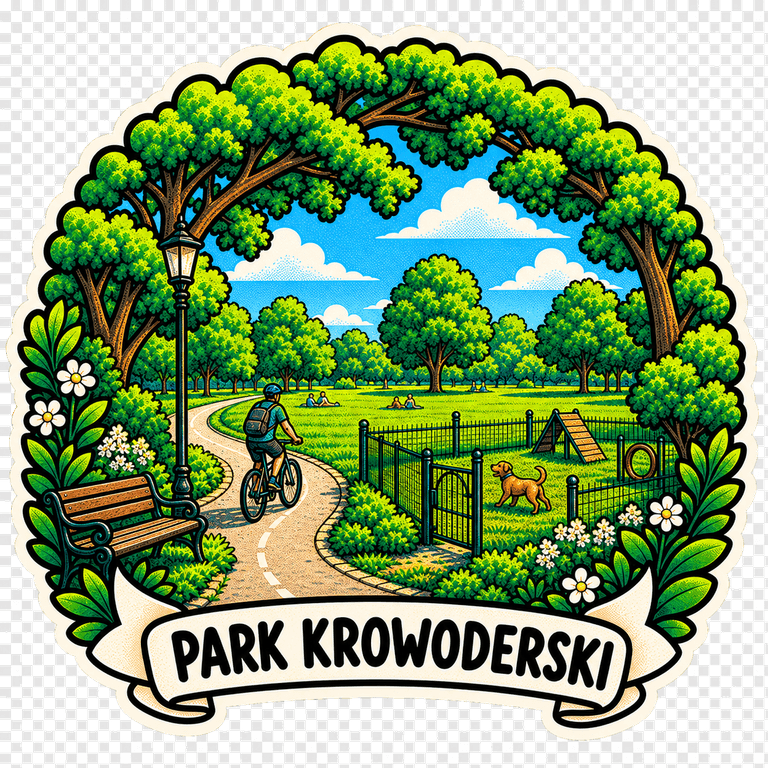
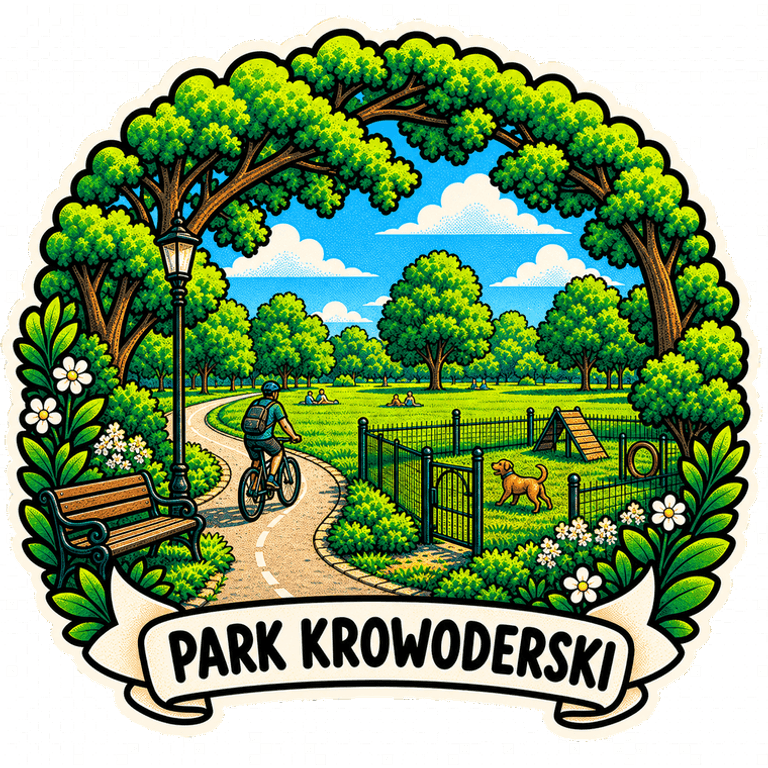
Cut out dark stamp backgrounds, retire the Piltza test route
Park Jordana came in on a black background and the importer only ever
removed near-white pixels, so the flood fill had nothing to spread
through and the sticker shipped inside a black rectangle. The
background colour is now the most common colour among opaque edge
pixels, which also fixes Krowoderski, whose corners were already
transparent while a pale grey band still ran along the edges. The
validator threshold moves from 5 to 12 percent (healthy stamps sit
above 20) and one bad sticker no longer aborts the whole batch.

test-park:remove had 'test-ruczaj' hard coded, a polygon retired long
ago, so it reported success while doing nothing. It now takes every
test- place, clears trails too, and keeps parks.json indented instead
of minifying it into a single 11k line diff. The Piltza route is gone
from all four data files.

58 places, 58 stamps, none missing, no orphans.

diff --git a/src/app/data/quests.ts b/src/app/data/quests.ts
@@ -2823,155 +2823,7 @@ const KRAKOW_QUESTS: Quest[] = [
       },
     ],
   },
-  {
-    parkId: 'test-piltza',
-    pois: [
-      {
-        id: "dom-43",
-        category: "history",
-        name: "Bruksela, czyli Piltza 43",
-        teaser: "Start trasy. Twój blok ma imię stolicy.",
-        description: [
-        "Osiedle Europejskie nie numeruje budynków byle jak: każdy nosi imię europejskiej stolicy, a ten, w którym stoisz, to Bruksela. Deweloper sprzedawał w ten sposób obietnicę bycia częścią Europy, w mieście, które właśnie do niej wchodziło.",
-        "To pierwszy punkt kontrolny: sprawdza, czy aplikacja łapie pozycję jeszcze przed wyjściem. Jeśli zalicza się sam, GPS i promienie działają. Jeśli nie, wyjdź przed budynek: między blokami sygnał odbija się od ścian.",
-        "Cała trasa to około pół kilometra w jedną stronę, sześć punktów, około kwadrans spokojnym krokiem.",
-        ],
-        findHint: "Wejście do budynku Bruksela przy ul. Piltza 43.",
-        reveal: "Nazwy stolic na blokach to chwyt starszy niż się wydaje: pierwsze osiedla nazywane od miast pojawiły się w Polsce w latach sześćdziesiątych, tylko wtedy patronowały im miasta zaprzyjaźnione z blokiem wschodnim. Adres zawsze coś ogłasza.",
-        dilemma: {
-          question: "Nazwa bloku wpływa na to, jak się w nim mieszka?",
-          options: [
-          "Tak, nazwa buduje wspólnotę: łatwiej powiedzieć „mieszkam w Brukseli” niż „w bloku numer 43”",
-          "Nie, to marketing dewelopera, po roku i tak wszyscy mówią „u mnie”",
-          "Nazwa robi robotę tylko wtedy, gdy trafia w coś prawdziwego: rzekę, dawny folwark, człowieka",
-          ],
-          counterpoint: "Badania nad przywiązaniem do miejsca sugerują, że najsilniej działają nazwy odnoszące się do lokalnej historii, a nie do aspiracji. Bruksela brzmi dobrze, ale nic tu nie znaczy: dwa kilometry dalej jest Kobierzyn, wieś z dokumentów z XIV wieku.",
-        },
-        coords: [19.89016, 50.01436],
-        radius: 28,
-      },
-      {
-        id: "parter-uslugowy",
-        category: "monument",
-        name: "Przedszkole i siłownia na parterze",
-        teaser: "Kilkadziesiąt metrów niżej blok przestaje być tylko blokiem.",
-        description: [
-        "Na parterze stoją obok siebie przedszkole Happy Kids i klub Power Zone. To niepozorny szczegół, a decyduje o tym, czy osiedle jest sypialnią, czy miejscem, w którym da się żyć bez samochodu.",
-        "Ruczaj ma tego dużo, bo powstawał już po zmianie prawa i mody: parter oddany usługom, mieszkania od pierwszego piętra. Starsze osiedla Krakowa dostawały zamiast tego wolnostojące pawilony, które dziś stoją puste.",
-        "Punkt testowy: idąc od poprzedniego zobaczysz najpierw delikatną wibrację i podpowiedź „blisko”, a dopiero potem zaliczenie. Sprawdź, czy tak jest.",
-        ],
-        findHint: "Parter bloku po zachodniej stronie Piltza, szyldy przedszkola i siłowni.",
-        reveal: "Jan Gehl mierzył to prosto: policz drzwi na sto metrów pierzei. Poniżej pięciu ulica jest martwa, powyżej dziesięciu żyje. Ten fragment Piltza ma ich tyle, że spacer nie nudzi się nawet w listopadzie.",
-        dilemma: {
-          question: "Wolisz mieszkać nad usługami, czy w cichym bloku bez nich?",
-          options: [
-          "Nad usługami: sklep i kawiarnia pod nosem są warte trochę hałasu",
-          "W cichym: po usługi mogę przejść dwie minuty, ciszy nie da się dokupić",
-          "Zależy od usługi: przedszkole tak, klub nocny nie",
-          ],
-          counterpoint: "To prawdziwy konflikt, nie kwestia gustu. Mieszkańcy pierwszych pięter płacą hałasem i dostawami za wygodę całego osiedla. W Wiedniu rozwiązuje się to inaczej: usługi idą do jednej pierzei kwartału, druga zostaje cicha.",
-        },
-        coords: [19.89016, 50.01386],
-        radius: 25,
-      },
-      {
-        id: "trzy-zlobki",
-        category: "meadow",
-        name: "Trzy żłobki na dwustu metrach",
-        teaser: "Policz szyldy z dziećmi. Nie przypadek.",
-        description: [
-        "HooplaKid, LogoSens, Happy Kids: na krótkim odcinku Piltza działa kilka żłobków i przedszkoli, a między blokami rozsiane są place zabaw. Tak wygląda dzielnica, do której wprowadzili się głównie ludzie po trzydziestce.",
-        "Ruczaj rósł wokół kampusu i firm z Zabłocia oraz Bonarki. Mieszkania kupowali tu ludzie na początku dorosłego życia, więc dziesięć lat później osiedle dostało falę dzieci, a razem z nią kolejki do przedszkoli.",
-        "Za kilkanaście lat te lokale zamienią się w coś innego. Osiedla starzeją się razem z pierwszymi mieszkańcami, tylko rzadko ktoś planuje to z wyprzedzeniem.",
-        ],
-        findHint: "Szyldy żłobków po wschodniej stronie ulicy, przy skrzyżowaniu.",
-        reveal: "Demografowie nazywają to falą kohortową: jednorodne wiekowo osiedle przeżywa boom przedszkolny, potem szkolny, a po trzech dekadach nagle potrzebuje opieki dla seniorów. Kraków zna to z Nowej Huty, która przeszła cały cykl w pięćdziesiąt lat.",
-        dilemma: {
-          question: "Osiedle powinno być projektowane pod obecnych mieszkańców, czy pod ich przyszłość?",
-          options: [
-          "Pod obecnych: potrzeby są dziś, a przyszłość i tak zaskoczy",
-          "Pod przyszłość: lokale i parter da się zaprojektować tak, by zmieniały funkcję",
-          "Pod różnorodność: wymieszać wiek mieszkańców od początku, wtedy nie ma fal",
-          ],
-          counterpoint: "Mieszanie wieku brzmi rozsądnie, ale rynek robi odwrotnie: identyczne mieszkania w identycznej cenie przyciągają identycznych ludzi. Żeby osiedle było różnorodne, ktoś musi celowo zbudować różne mieszkania, a to jest droższe.",
-        },
-        coords: [19.89069, 50.0135],
-        radius: 30,
-      },
-      {
-        id: "pomnik-1942",
-        category: "history",
-        name: "Pomnik pacjentów Kobierzyna",
-        teaser: "Najcichszy punkt tej trasy. Warto tu stanąć dłużej.",
-        description: [
-        "Kilkaset metrów od bloków, w parku dawnego szpitala w Kobierzynie, stoi pomnik pacjentów zamordowanych w 1942 roku. Szpital działa do dziś, nosi imię doktora Jana Babińskiego, a jego pawilony rozsiane w zieleni wyglądają jak małe miasto.",
-        "I takie miały być. Zakład otwarty na początku XX wieku projektowano jako miasto-ogród dla chorych: osobne pawilony, własne gospodarstwo, kościół, kotłownia, park. Leczenie miało polegać na spokoju, pracy i przestrzeni, a nie na zamknięciu w jednym gmachu.",
-        "W czerwcu 1942 Niemcy zlikwidowali szpital. Część pacjentów zamordowano na miejscu, pozostałych wywieziono do Auschwitz. Zginęło kilkuset ludzi, których jedyną winą była choroba.",
-        ],
-        findHint: "Idź alejką w głąb parku szpitalnego, pomnik stoi przy głównej ścieżce.",
-        reveal: "Zbrodnia w Kobierzynie nie była wybuchem szału, a procedurą. Wpisywała się w niemiecki program mordowania chorych psychicznie, prowadzony wcześniej pod nazwą Akcji T4, w którym lekarze podpisywali listy pacjentów jak dokumenty magazynowe. Najtrudniejsze w tej historii jest to, że wykonali ją ludzie z dyplomami zawodu, który miał leczyć.",
-        dilemma: {
-          question: "Szpital w miejscu takiej zbrodni: leczyć dalej, czy zamienić w miejsce pamięci?",
-          options: [
-          "Leczyć dalej: najlepszą odpowiedzią na mord chorych jest opieka nad chorymi",
-          "Zrobić muzeum: takie miejsce powinno uczyć, a pacjenci zasługują na nowy budynek",
-          "Jedno i drugie: szpital działa, ale pamięć nie może być tylko tablicą przy alejce",
-          ],
-          counterpoint: "Pacjenci nie mieli tu wyboru i nadal go nie mają: przychodzą się leczyć, a mieszkają w krajobrazie cudzej tragedii. Z drugiej strony przeniesienie szpitala oznaczałoby, że po ofiarach zostaje tylko pomnik, a po sprawcach pusty park.",
-        },
-        coords: [19.88854, 50.01244],
-        radius: 60,
-      },
-      {
-        id: "kwiaty-i-kawa",
-        category: "monument",
-        name: "Kwiaty i Kawa",
-        teaser: "Kwiaciarnia z ekspresem. Dokładnie to, czego brakuje osiedlom.",
-        description: [
-        "Lokal łączy dwie rzeczy, które osobno na osiedlu nie mają szans: kwiaciarnię, do której wpada się cztery razy w roku, i kawę, po którą przychodzi się codziennie. Razem wychodzi miejsce, które utrzymuje się z sąsiadów, a nie z turystów.",
-        "Obok stoi Dary Posejdona, sklep z rybami. To już nie jest sypialnia: to zestaw sklepów, który daje się obsłużyć pieszo, bez wyprawy do galerii.",
-        "Sprawdź tu, czy działa zapis notatki i zdjęcia w konkretnym miejscu. Zostaw pina z podpisem albo notatkę głosową i zobacz, czy stanął tam, gdzie stoisz.",
-        ],
-        findHint: "Witryna z kwiatami po wschodniej stronie Piltza, kilkadziesiąt metrów przed numerem 34.",
-        reveal: "Socjolog Ray Oldenburg nazwał takie lokale trzecim miejscem: nie dom, nie praca, tylko przestrzeń, w której bywa się bez powodu. Jego teza jest niewygodna dla deweloperów: osiedle bez trzeciego miejsca może mieć wszystko inne i nadal pozostać noclegownią.",
-        dilemma: {
-          question: "Wolisz jedną dobrą kawiarnię blisko, czy pięć sieciówek w centrum?",
-          options: [
-          "Jedną blisko: znają zamówienie i wiedzą, kiedy nie zagadywać",
-          "Sieciówki: przewidywalna jakość i otwarte, gdy naprawdę potrzebuję",
-          "Wolę jedno i drugie i płacić różnicę w odpowiednim miejscu",
-          ],
-          counterpoint: "Lokalna kawiarnia bywa romantyzowana, ale bez ruchu z dwóch, trzech tysięcy mieszkańców po prostu nie utrzyma się w czynszu. Kiedy narzekamy, że zamknęła, zwykle sami byliśmy tam raz na miesiąc.",
-        },
-        coords: [19.89068, 50.01224],
-        radius: 25,
-      },
-      {
-        id: "piltza-34",
-        category: "monument",
-        name: "Piltza 34, koniec trasy",
-        teaser: "Kto to był Piltz, wyjaśnia się dopiero tutaj.",
-        description: [
-        "Doszedłeś. Wokół są drzewa, ławki i plac zabaw, czyli dokładnie to, po co wychodzi się z domu na kwadrans. To dobre miejsce, żeby usiąść i zamknąć wyprawę.",
-        "Ulica nosi imię Jana Piltza, psychiatry i neurologa, profesora Uniwersytetu Jagiellońskiego z przełomu XIX i XX wieku. To on należał do tych, którzy wywalczyli budowę nowoczesnego zakładu w Kobierzynie, tego samego, którego pomnik minąłeś po drodze.",
-        "Sprawdź tu ostatnie rzeczy: czy licznik pokazuje sensowny dystans, czy ślad na mapie trzyma się ulicy, i co się dzieje, gdy zaliczysz komplet punktów. Wyprawa ma się skończyć wtedy, kiedy Ty klikniesz koniec, nie wcześniej.",
-        ],
-        findHint: "Wejście do budynku numer 34, obok ławki i drzewa.",
-        reveal: "Piltz zmarł w 1930 roku, dwanaście lat przed zbrodnią w szpitalu, o który walczył. Nazwa ulicy powstała później i nikt jej nie planował jako komentarza, a jednak trasa, którą właśnie przeszedłeś, zaczyna się przy jego nazwisku i kończy przy jego nazwisku, z pomnikiem ofiar w środku.",
-        dilemma: {
-          question: "Nazwa ulicy to forma pamięci, czy tylko adres?",
-          options: [
-          "Pamięć: dopóki nazwa istnieje, ktoś kiedyś sprawdzi, kim był ten człowiek",
-          "Adres: mieszkańcy nie znają patronów swoich ulic i to nic złego",
-          "Pamięć wtedy, gdy stoi przy niej wyjaśnienie: sama tabliczka z nazwiskiem to za mało",
-          ],
-          counterpoint: "Kraków ma kilkaset ulic z patronami i garść tabliczek z wyjaśnieniem. Można to uznać za zaniedbanie, ale też za rozsądek: kto chciałby mieszkać w mieście, które na każdym rogu tłumaczy, dlaczego coś jest ważne?",
-        },
-        coords: [19.89069, 50.01174],
-        radius: 28,
-      },
-    ],
-  },
+
   {
     /*
      * Błonia Skawińskie: pierwsza wyprawa z punktem CIEKAWOSTKĄ. Pieczątka

diff --git a/src/app/data/trails.ts b/src/app/data/trails.ts
@@ -115,9 +115,7 @@ export const TRAILS: Record<string, Trail[]> = {
     { id: 'wokol', name: 'Pętla po parku', kind: 'points', m: 2774, min: 38, stops: ['smok-aleksandry', 'zbiornik-aleksandry'], line: [[20.01093,50.00983],[20.01081,50.00971],[20.01071,50.00971],[20.01058,50.00978],[20.01021,50.00998],[20.01002,50.01008],[20.00921,50.01048],[20.00905,50.01055],[20.00917,50.01066],[20.00924,50.01071],[20.00926,50.01077],[20.0094,50.0109],[20.00947,50.01093],[20.00956,50.01103],[20.00964,50.01112],[20.00984,50.01132],[20.00997,50.01143],[20.01003,50.01148],[20.01008,50.01153],[20.01017,50.01156],[20.01032,50.01158],[20.01031,50.01165],[20.01065,50.0117],[20.01074,50.0117],[20.01097,50.01172],[20.01111,50.01172],[20.01147,50.01175],[20.01154,50.01172],[20.01157,50.01166],[20.01171,50.01169],[20.01181,50.01172],[20.01192,50.01176],[20.01286,50.01133],[20.01302,50.01138],[20.01313,50.01147],[20.01337,50.01165],[20.0135,50.01169],[20.01363,50.01169],[20.01376,50.01168],[20.01387,50.01167],[20.014,50.01167],[20.01404,50.01176],[20.01403,50.01185],[20.01398,50.01196],[20.01408,50.01198],[20.01417,50.01203],[20.01424,50.01207],[20.01446,50.0121],[20.0147,50.01213],[20.01472,50.01221],[20.01473,50.01235],[20.01477,50.01241],[20.01484,50.01252],[20.01486,50.01258],[20.01485,50.01264],[20.01483,50.01272],[20.01478,50.01282],[20.01471,50.01289],[20.01462,50.01295],[20.01449,50.013],[20.01441,50.01292],[20.01436,50.01286],[20.01435,50.01297],[20.01429,50.01321],[20.01427,50.0133],[20.01425,50.01337],[20.01422,50.01345],[20.0142,50.01355],[20.01413,50.01399],[20.01421,50.01395],[20.01413,50.01399],[20.0142,50.01355],[20.01382,50.0136],[20.01361,50.01362],[20.0131,50.01371],[20.01298,50.01372],[20.01295,50.01388],[20.0129,50.01414],[20.01287,50.01431],[20.01285,50.01442],[20.0128,50.01456],[20.01285,50.01442],[20.01287,50.01431],[20.0129,50.01414],[20.01294,50.01393],[20.01294,50.01375],[20.01307,50.01331],[20.01316,50.01308],[20.0132,50.01301],[20.01326,50.01293],[20.01331,50.01287],[20.01338,50.0128],[20.01351,50.0127],[20.01358,50.01261],[20.01367,50.01252],[20.01372,50.01246],[20.01374,50.01239],[20.01374,50.0123],[20.01374,50.01223],[20.01373,50.01216],[20.01373,50.0121],[20.01372,50.01201],[20.01372,50.01189],[20.01371,50.01183],[20.01367,50.01176],[20.01363,50.01169],[20.0135,50.01169],[20.01339,50.01166],[20.01331,50.01168],[20.01328,50.01182],[20.01334,50.01193],[20.01337,50.01205],[20.01337,50.01211],[20.01337,50.0122],[20.0133,50.01233],[20.01326,50.01239],[20.0132,50.01244],[20.01318,50.01252],[20.01314,50.01257],[20.01318,50.01252],[20.0132,50.01244],[20.01326,50.01239],[20.0133,50.01233],[20.01337,50.0122],[20.01337,50.01211],[20.01337,50.01205],[20.01334,50.01193],[20.01331,50.01187],[20.01328,50.01173],[20.01337,50.01165],[20.0135,50.01169],[20.01363,50.01169],[20.01376,50.01168],[20.01387,50.01167],[20.014,50.01167],[20.01397,50.01159],[20.01393,50.01146],[20.01388,50.01129],[20.01385,50.01116],[20.01383,50.01107],[20.01385,50.011],[20.01396,50.01092],[20.01418,50.01082],[20.01431,50.01079],[20.01453,50.01068],[20.01431,50.01079],[20.01418,50.01082],[20.01402,50.0109],[20.01389,50.01097],[20.0138,50.01105],[20.01372,50.01101],[20.01358,50.01096],[20.0135,50.0109],[20.01335,50.01071],[20.01327,50.01059],[20.01316,50.01048],[20.01299,50.01052],[20.01291,50.01054],[20.01283,50.01057],[20.01275,50.01061],[20.01258,50.01055],[20.01232,50.01044],[20.01211,50.01034],[20.01178,50.01017],[20.01163,50.01007],[20.01155,50.01003],[20.01149,50.00999],[20.01134,50.00984],[20.01127,50.00977],[20.01101,50.00959],[20.0109,50.0095],[20.01082,50.00943],[20.00906,50.01021],[20.00888,50.01029],[20.00886,50.01036],[20.00896,50.01047],[20.00905,50.01055],[20.00921,50.01048],[20.01002,50.01008],[20.01018,50.01],[20.01058,50.00978],[20.01071,50.00971],[20.01081,50.00971],[20.01093,50.00983]] },
     { id: 'punkty-wszystkie', name: 'Trasa przez punkty', kind: 'points', m: 1171, min: 16, stops: ['smok-aleksandry', 'zbiornik-aleksandry'], line: [[20.01093,50.00983],[20.01081,50.00971],[20.01071,50.00971],[20.01058,50.00978],[20.01021,50.00998],[20.01002,50.01008],[20.00921,50.01048],[20.00905,50.01055],[20.00917,50.01066],[20.00924,50.01071],[20.00926,50.01077],[20.0094,50.0109],[20.00947,50.01093],[20.00956,50.01103],[20.00964,50.01112],[20.00984,50.01132],[20.00997,50.01143],[20.01003,50.01148],[20.01008,50.01153],[20.01017,50.01156],[20.01032,50.01158],[20.01031,50.01165],[20.01065,50.0117],[20.01074,50.0117],[20.01097,50.01172],[20.01111,50.01172],[20.01147,50.01175],[20.01168,50.01179],[20.01187,50.01187],[20.01197,50.01196],[20.01204,50.01206],[20.0121,50.01217],[20.01222,50.01215],[20.01234,50.01215],[20.01238,50.0122],[20.01248,50.01237],[20.01257,50.01256],[20.01295,50.01247],[20.01257,50.01256],[20.01248,50.01237],[20.01238,50.0122],[20.01234,50.01215],[20.01222,50.01215],[20.0121,50.01217],[20.01204,50.01206],[20.01197,50.01196],[20.01187,50.01187],[20.01168,50.01179],[20.01152,50.01175],[20.01111,50.01172],[20.01097,50.01172],[20.01074,50.0117],[20.01065,50.0117],[20.01031,50.01168],[20.01031,50.01162],[20.01024,50.01158],[20.01008,50.01153],[20.01003,50.01148],[20.00997,50.01143],[20.00989,50.01136],[20.00967,50.01116],[20.00956,50.01103],[20.0095,50.01097],[20.00946,50.01092],[20.00926,50.01077],[20.00924,50.01071],[20.00917,50.01066],[20.00905,50.01055],[20.00921,50.01048],[20.01002,50.01008],[20.01018,50.01],[20.01058,50.00978],[20.01071,50.00971],[20.01081,50.00971],[20.01093,50.00983]] },
   ],
-  'test-piltza': [
-    { id: 'punkty-wszystkie', name: 'Pętla przez wszystkie punkty', kind: 'points', m: 1212, min: 16, stops: ['dom-43', 'parter-uslugowy', 'pomnik-1942', 'piltza-34', 'kwiaty-i-kawa', 'trzy-zlobki'], line: [[19.8903,50.01436],[19.8903,50.01424],[19.89033,50.01407],[19.89031,50.01399],[19.89029,50.01387],[19.89029,50.01361],[19.89036,50.01358],[19.89036,50.01343],[19.89034,50.01336],[19.89037,50.01324],[19.89038,50.01313],[19.89035,50.01307],[19.89036,50.01281],[19.89037,50.01268],[19.89042,50.01262],[19.8904,50.01247],[19.89039,50.01234],[19.89041,50.01228],[19.89038,50.01219],[19.89034,50.01214],[19.89007,50.01216],[19.88984,50.01217],[19.88922,50.01222],[19.88901,50.01224],[19.88892,50.01225],[19.88839,50.01229],[19.88824,50.01231],[19.88811,50.01231],[19.88801,50.01231],[19.88795,50.01236],[19.88788,50.01241],[19.8878,50.01243],[19.88787,50.0126],[19.88821,50.01261],[19.88846,50.01259],[19.88856,50.01257],[19.88854,50.01245],[19.88856,50.01257],[19.88846,50.01259],[19.88821,50.01261],[19.88795,50.0126],[19.88782,50.01248],[19.88788,50.01241],[19.88795,50.01237],[19.88796,50.01231],[19.88811,50.01231],[19.88824,50.01231],[19.88839,50.01229],[19.88892,50.01225],[19.88901,50.01224],[19.88922,50.01222],[19.88984,50.01217],[19.89007,50.01216],[19.89026,50.01214],[19.89042,50.01209],[19.89052,50.01208],[19.8905,50.01201],[19.89047,50.01194],[19.89059,50.01192],[19.89056,50.01181],[19.89059,50.01192],[19.89047,50.01194],[19.8905,50.01201],[19.89052,50.01208],[19.89057,50.01214],[19.89066,50.01214],[19.89067,50.01224],[19.89068,50.01235],[19.89065,50.01265],[19.89054,50.01265],[19.89051,50.0128],[19.89051,50.01291],[19.89051,50.01301],[19.8905,50.01315],[19.89051,50.0133],[19.8905,50.01349],[19.89049,50.01372],[19.89049,50.01383],[19.89049,50.0139],[19.89057,50.01394],[19.89057,50.014],[19.8905,50.01405],[19.89041,50.01405],[19.89032,50.01406],[19.89035,50.0142],[19.8903,50.01436]] },
-  ],
+
   'skawina-blonia': [
     { id: 'punkty-wszystkie', name: 'Pętla przez wszystkie punkty', kind: 'points', m: 817, min: 10, stops: ['park-energii', 'starorzecze-blon', 'miasta-partnerskie'], line: [[19.81725,49.97106],[19.81702,49.97089],[19.81696,49.97097],[19.81694,49.97103],[19.81696,49.97114],[19.81705,49.97131],[19.81715,49.97139],[19.81726,49.97146],[19.81765,49.97166],[19.81787,49.97177],[19.81825,49.97191],[19.81837,49.97198],[19.8185,49.97206],[19.81873,49.97223],[19.81895,49.97242],[19.81902,49.97245],[19.81912,49.97246],[19.81922,49.97243],[19.81929,49.97237],[19.8193,49.97229],[19.8193,49.97203],[19.81935,49.97197],[19.81947,49.97196],[19.81967,49.97197],[19.81978,49.97195],[19.81985,49.97192],[19.8199,49.97187],[19.81999,49.97181],[19.82008,49.97177],[19.82016,49.97174],[19.82014,49.97164],[19.82001,49.97149],[19.81985,49.97129],[19.81967,49.97104],[19.81946,49.9708],[19.81937,49.97069],[19.8193,49.97057],[19.81922,49.97042],[19.81912,49.97029],[19.81902,49.97019],[19.81893,49.97011],[19.81881,49.97006],[19.81871,49.97005],[19.81839,49.97001],[19.81829,49.97001],[19.81817,49.97003],[19.8181,49.97007],[19.81801,49.97016],[19.81794,49.9703],[19.8179,49.97037],[19.81784,49.97044],[19.81778,49.9705],[19.81771,49.97055],[19.81762,49.97061],[19.81744,49.97071],[19.81717,49.97081],[19.81709,49.97085],[19.81702,49.97089],[19.81725,49.97106]] },
   ],

diff --git a/src/app/data/parkinfo.ts b/src/app/data/parkinfo.ts
@@ -69,14 +69,7 @@ export const PARK_INFO: Record<string, ParkInfo> = {
       verified: false,
     },
   },
-  'test-piltza': {
-    description: [
-      'Trasa testowa wzdłuż ulicy Piltza, od numeru 43 do 34: pół kilometra w jedną stronę i sześć punktów, na których sprawdzasz, czy aplikacja robi to, co ma robić w terenie.',
-      'Nie jest to park, ale trasa ma własną opowieść. Zaczyna się przy bloku o nazwie Bruksela, prowadzi obok przedszkoli i żłobków najmłodszej dzielnicy Krakowa, skręca do pomnika pacjentów szpitala w Kobierzynie zamordowanych w 1942 roku i kończy przy numerze 34, pod nazwiskiem lekarza, który ten szpital wywalczył.',
-      'Po testach usuniesz ją jedną komendą: npm run test-park:remove.',
-    ],
-    amenities: { playground: { has: true, note: 'Kilka placów zabaw między blokami, największy przy numerze 34.' }, food: { has: true, note: 'Kwiaty i Kawa oraz Dary Posejdona po drodze, Żabka i Groszek przy starcie.' }, verified: false },
-  },
+
   blonia: {
     photos: [
       { src: '/photos/park-blonia-zzm-1.jpg', credit: 'Fot. ZZM Kraków · zzm.krakow.pl' },

diff --git a/src/app/data/trip.ts b/src/app/data/trip.ts
@@ -25,11 +25,16 @@ type ParkLike = { id: string; properties?: { trip?: string; test?: boolean } }
 /** czy to miejsce z wyprawy (a nie z kolekcji krakowskiej) */
 export const isTripPark = (f: ParkLike) => f.properties?.trip != null
 
+/** poligon testowy: rozpoznajemy po prefiksie, bo nazwa zmienia się co test */
+export const isTestPark = (f: ParkLike) => f.id.startsWith('test-') || f.properties?.test === true
+
 /**
- * Czy miejsce liczy się do kolekcji Krakowa. Poligon testowy przy Piltza
- * odpada z tego samego powodu co wyprawa: jest w pliku, ale nie jest miastem.
+ * Czy miejsce liczy się do kolekcji Krakowa. Poligon testowy odpada z tego
+ * samego powodu co wyprawa: jest w pliku, ale nie jest miastem. Sprawdzamy
+ * prefiks, a nie konkretne id, bo poprzednie („test-piltza") zdążyło już
+ * zniknąć, a filtr z jego nazwą został i nic nie robił.
  */
-export const countsForKrakow = (f: ParkLike) => f.id !== 'test-piltza' && f.properties?.trip == null
+export const countsForKrakow = (f: ParkLike) => !isTestPark(f) && f.properties?.trip == null
 
 const HOME_KEY = 'pk-trip-home'
 

diff --git a/src/app/App.tsx b/src/app/App.tsx
@@ -63,6 +63,7 @@ import type { QuestPoi } from './data/quests'
 import parksData from './data/parks.json'
 import { plPunkty } from './naming'
 import './app.css'
+import { isTestPark } from './data/trip'
 
 const FEATURES = parksData.features as unknown as ParkFeature[]
 
@@ -247,7 +248,7 @@ export function App() {
   /* piny miejsc na mapie: ikona rodzaju, kolor stanu (grill 2026-08-24) */
   const parkPins = useMemo(
     () =>
-      FEATURES.filter((f) => f.id !== 'test-piltza').map((f) => ({
+      FEATURES.filter((f) => !isTestPark(f)).map((f) => ({
         id: f.id,
         kind: f.properties.kind,
         coords: f.properties.center as [number, number],
